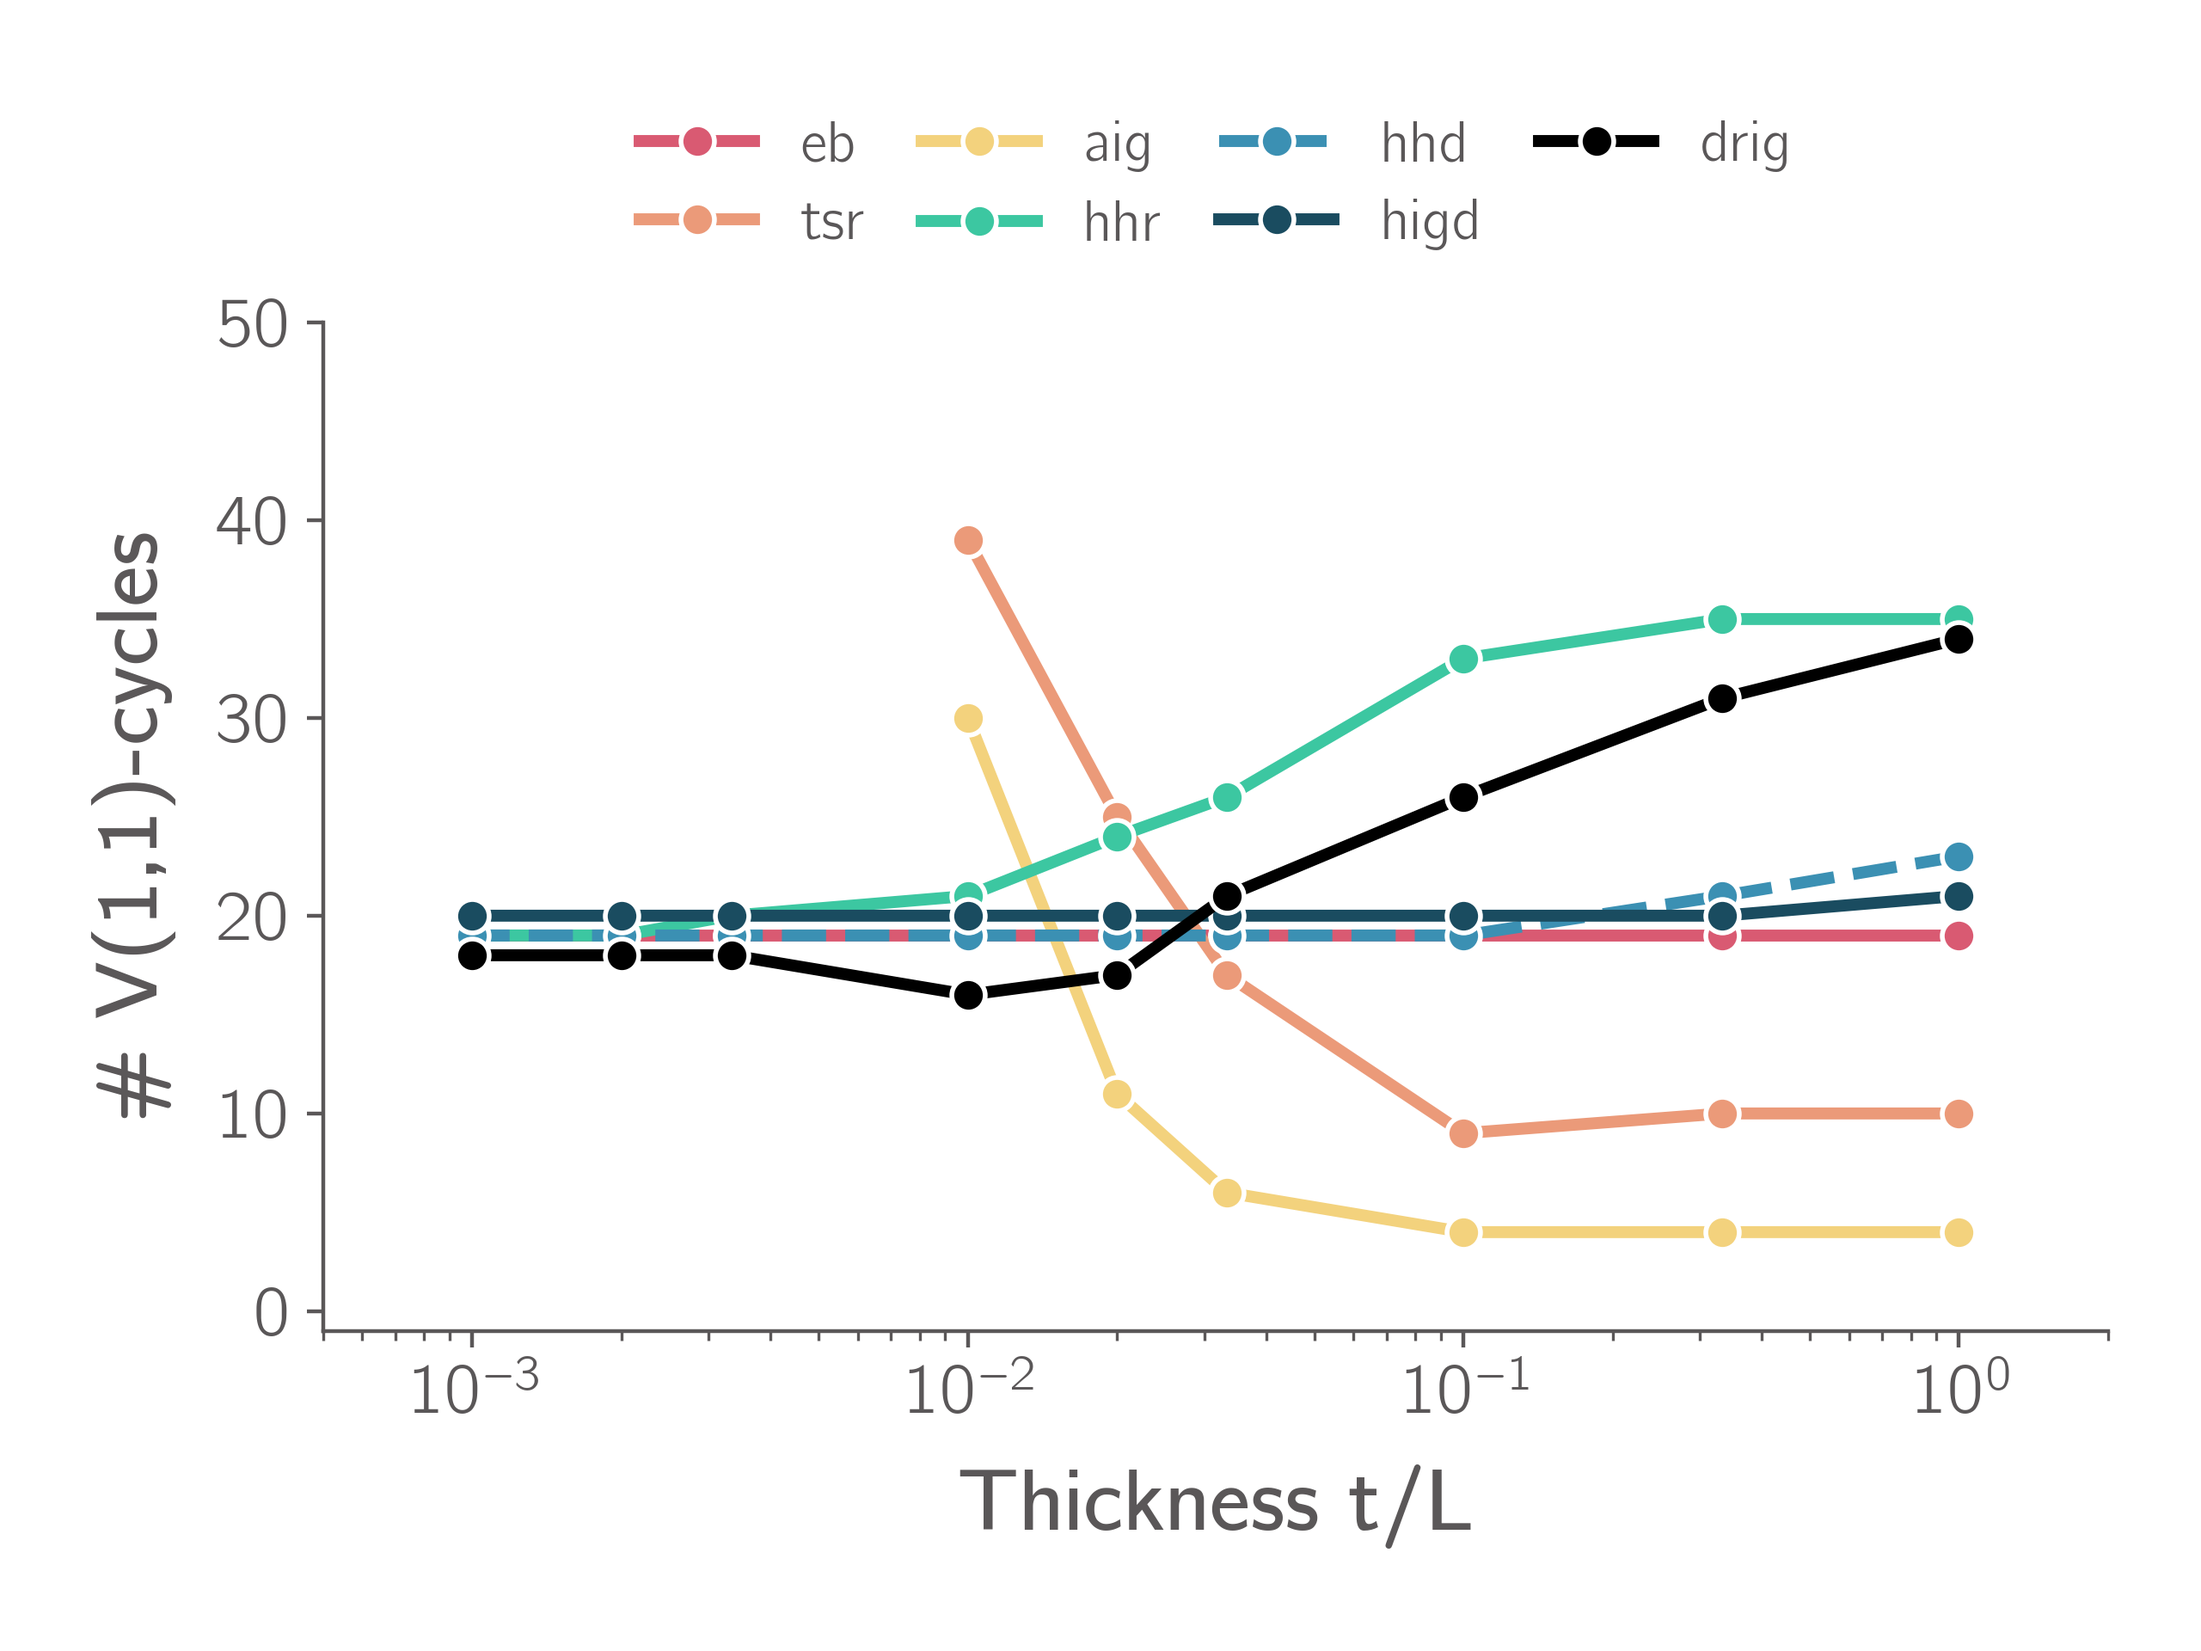
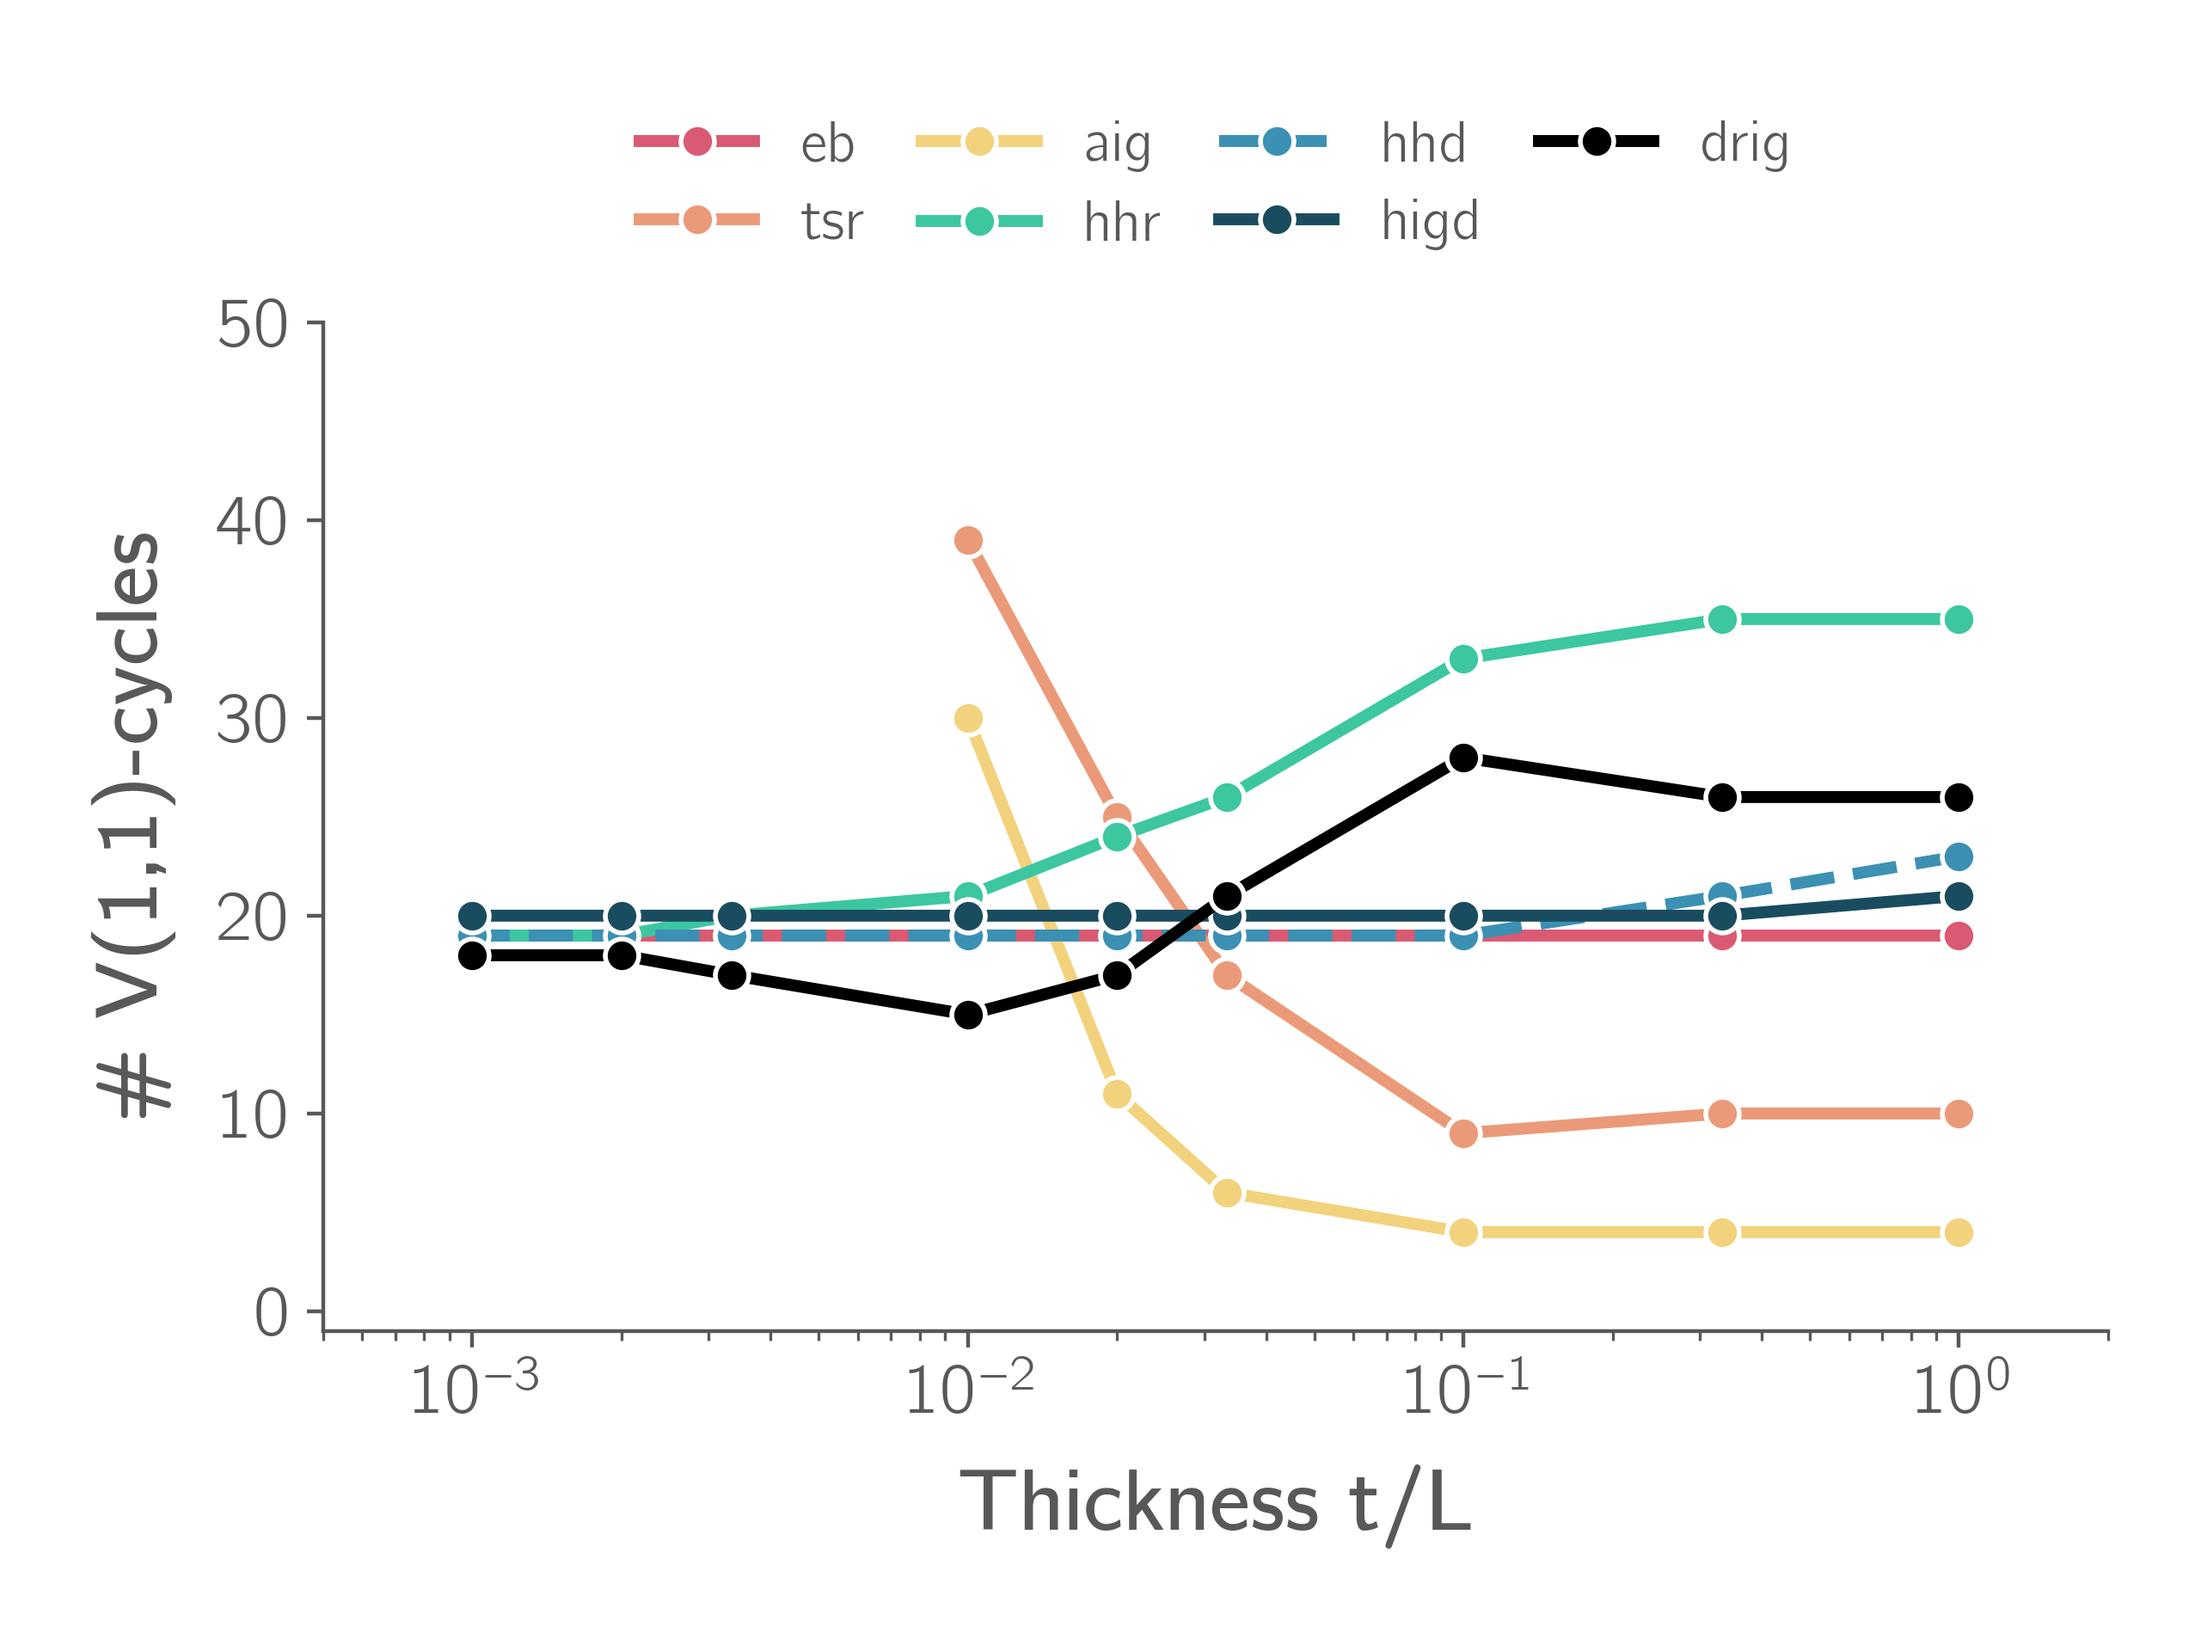
got DRIG beam elem great performance at thin and thick beam with GMG V(1,1) cycles!

diff --git a/examples/adv_elem/1_beam/1_solve.py b/examples/adv_elem/1_beam/1_solve.py
@@ -163,22 +163,24 @@ if args.solve == 'direct':
     assembler.direct_solve()
 elif args.solve == 'vmg':
     # DEBUG
-    if args.debug:
-        assembler._assemble_system()
-        assembler.u = vmg.solve(assembler.force)
+    # if args.debug:
+    #     assembler._assemble_system()
+    #     assembler.u = vmg.solve(assembler.force)
 
     # proper V-cycle solver
-    if not args.debug:
-        # smoothers = None # DEBUG
-        # print("WARNING using internal GS smoother, not ASW/GS created above")
+    # if not args.debug:
+    # smoothers = None # DEBUG
+    # print("WARNING using internal GS smoother, not ASW/GS created above")
 
-        assembler.u, ncyc = vcycle_solve(grids, pre_smooth=args.nsmooth, post_smooth=args.nsmooth,
-                                        #  line_search=not(args.elem == 'aig'))
-                                        # line search sometimes hurts high cond # cases (high defects in prolong)
-                                        # line_search=not(args.elem in ['aig', 'tsr', 'hhd', 'higd']), 
-                                        line_search=False,
-                                        # line_search=True,
-                                        smoothers=smoothers)
+    assembler.u, ncyc = vcycle_solve(grids, pre_smooth=args.nsmooth, post_smooth=args.nsmooth,
+                                    #  line_search=not(args.elem == 'aig'))
+                                    # line search sometimes hurts high cond # cases (high defects in prolong)
+                                    # line_search=not(args.elem in ['aig', 'tsr', 'hhd', 'higd']), 
+                                    # line_search=False,
+                                    line_search=args.elem == 'drig', # rarerly helps (but does help for drig elem!)
+                                    # line_search=True,
+                                    debug=args.debug,
+                                    smoothers=smoothers)
 
 elif args.solve == 'kmg':
     vmg.n_cycles = 2

diff --git a/examples/adv_elem/1_beam/src/multigrid2.py b/examples/adv_elem/1_beam/src/multigrid2.py
@@ -79,6 +79,7 @@ def debug_plot(dof_per_node, grid, vec1, vec2):
 
 def vcycle_solve(grids:list, nvcycles:int=100, pre_smooth:int=1, post_smooth:int=1, 
                  debug_print:bool=False, print_freq:int=1, double_smooth:bool=True, can_print:bool=True, 
+                 debug:bool=False,
                  line_search:bool=True, smoothers=None, rtol:float=1e-6):
     # grids are just assembler objects usually (no unified GRID object)
     nlevels = len(grids)
@@ -91,7 +92,8 @@ def vcycle_solve(grids:list, nvcycles:int=100, pre_smooth:int=1, post_smooth:int
     # print(f"{defects=}")
     # print(f"{}")
 
-    debug = False
+    # debug = True
+    # debug = False
 
     init_defect_norm = np.linalg.norm(defects[0])
     if can_print:
@@ -164,17 +166,17 @@ def vcycle_solve(grids:list, nvcycles:int=100, pre_smooth:int=1, post_smooth:int
             dx = grids[i].prolongate(solns[i+1])
             df = mats[i].dot(dx)
 
-            # if debug:
-                # print("DEBUG : prolong dx")
-                # grids[i].u = dx.copy()
-                # grids[i].plot_disp()
+            if debug:
+                print("DEBUG : prolong dx")
+                grids[i].u = dx.copy()
+                grids[i].plot_disp()
 
             # compare to exact solve of defect here
-            # if debug:
-            #     print("DEBUG : exact dx_fine")
-            #     dx_exact = sp.sparse.linalg.spsolve(mats[i].copy(), defects[i])
-            #     grids[i].u = dx_exact.copy()
-            #     grids[i].plot_disp()
+            if debug:
+                print("DEBUG : exact dx_fine")
+                dx_exact = sp.sparse.linalg.spsolve(mats[i].copy(), defects[i])
+                grids[i].u = dx_exact.copy()
+                grids[i].plot_disp()
 
             # print(f"{dx.shape=}")
 

diff --git a/examples/adv_elem/1_beam/2_thick_perf.py b/examples/adv_elem/1_beam/2_thick_perf.py
@@ -138,7 +138,8 @@ for SR in SR_vec:
                                             #  line_search=not(args.elem == 'aig'))
                                             # line search sometimes hurts high cond # cases (high defects in prolong)
                                             # line_search=not(elem in ['aig', 'tsr', 'hhd', 'higd']),    
-                                            line_search=False,                                         
+                                            # line_search=False,   
+                                            line_search=elem == 'drig', # rarerly helps (but does help for drig elem!)                                      
                                             # line_search=True,
                                             smoothers=smoothers)
         if ncyc >= 99:

diff --git a/examples/adv_elem/1_beam/src/diga_assembler.py b/examples/adv_elem/1_beam/src/diga_assembler.py
@@ -256,6 +256,13 @@ class DeRhamIGABeamAssembler:
     #     plt.ylabel("w(x)" if idof == 0 else "th(x)")
     #     plt.show()     
 
+    def plot_disp(self):
+        xvec = np.linspace(0.0, self.L, self.nw)
+        w = self.u[:self.nw]
+        plt.figure()
+        plt.plot(xvec, w)
+        plt.show()
+
     def prolongate(self, coarse_soln):
         # takes coarse soln runs on fine grid so:
         nxe_c = self.nxe // 2
